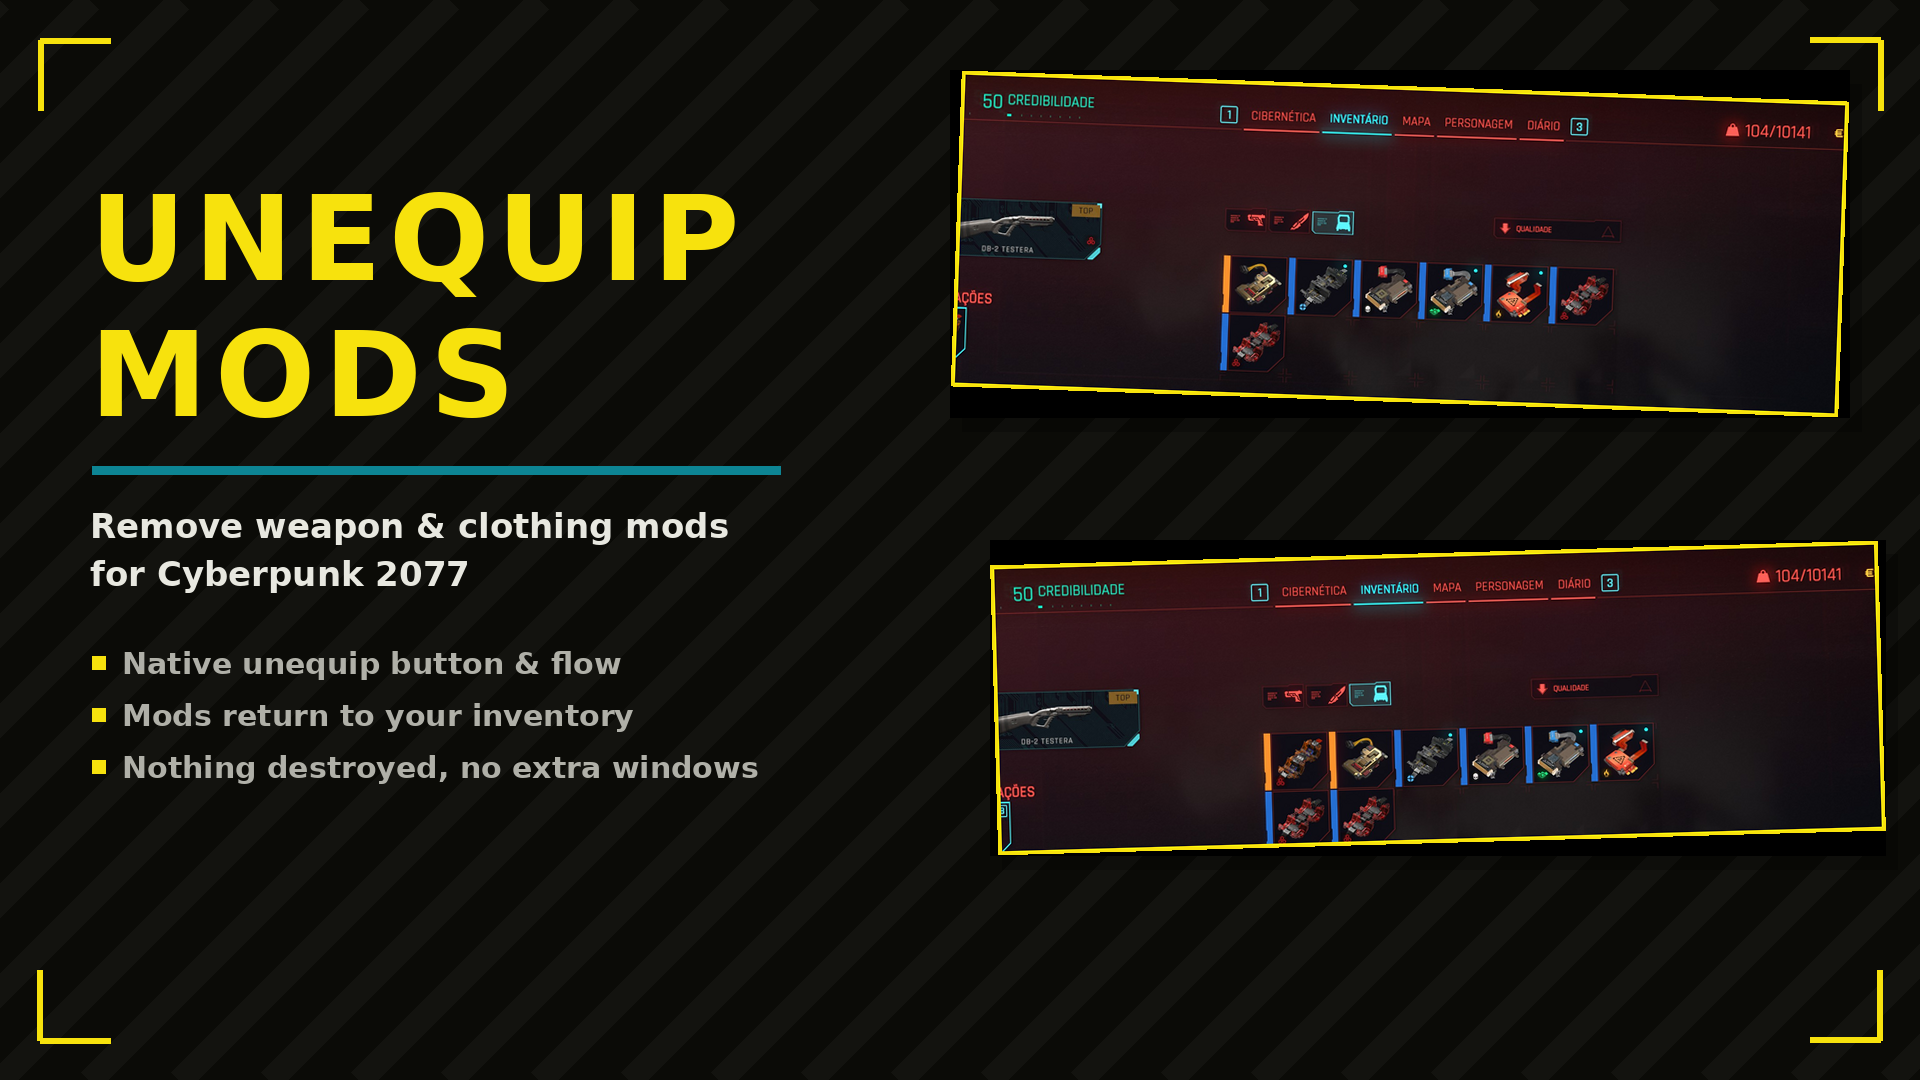
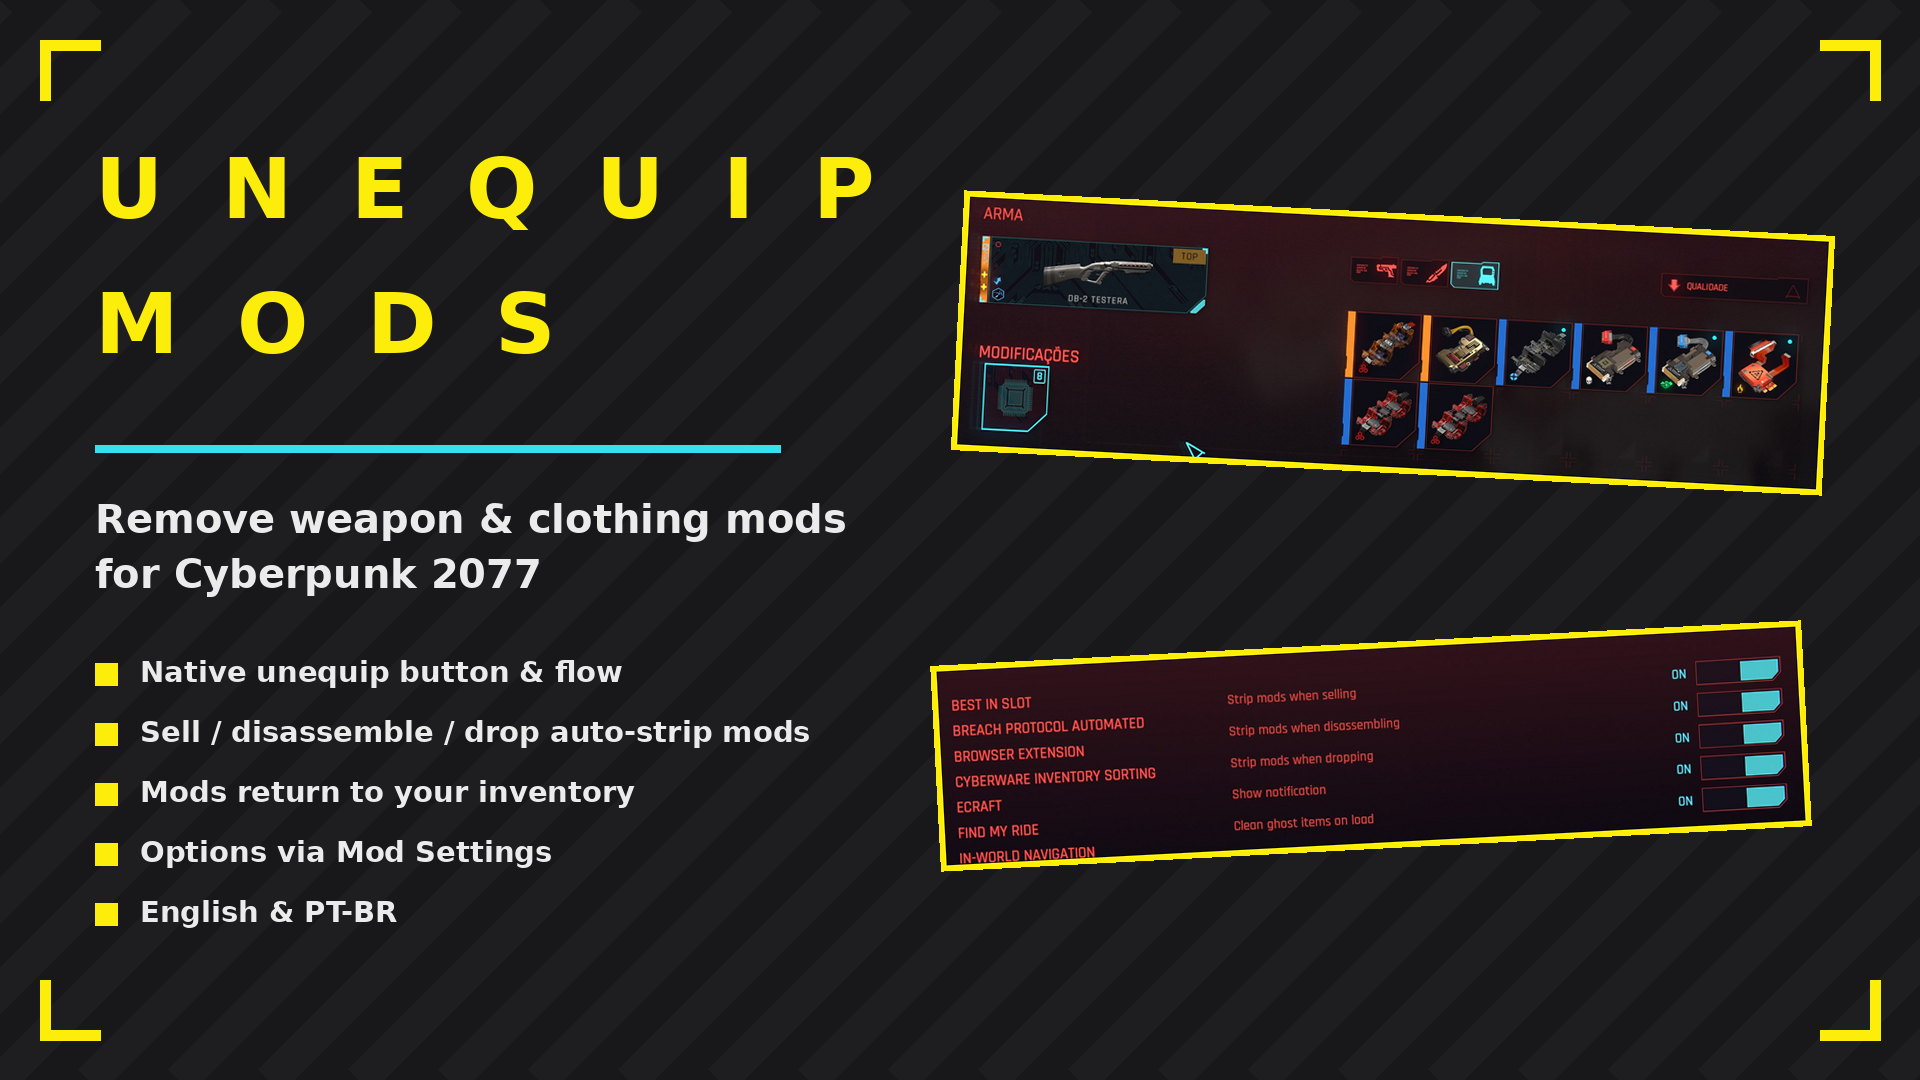
UnequipMods 1.4.0: strip on drop, Mod Settings, new cover

Changed region(s): [[0.0, 0.0, 1.0, 1.0]]

diff --git a/CyberPunk/UnequipMods/README.md b/CyberPunk/UnequipMods/README.md
@@ -9,11 +9,15 @@ Unequip weapon and clothing mods back to your inventory instead of losing them. 
 ## ✨ Features
 - Native unequip button & flow
 - Mods return to your inventory
+- Selling, disassembling and dropping auto-strip mods first
+- Options in the Mod Settings menu (optional dependency)
 - Nothing destroyed, no extra windows
+- English & PT-BR, following the game language
 
 ## 📸 Screenshots
 ![screenshot](screenshots/screenshot-antes-remover.jpg)
 ![screenshot](screenshots/screenshot-depois-remover.jpg)
+![screenshot](screenshots/mod-settings.jpg)
 
 ## 🌍 Translating
 Texts live in `Localization.reds`. To add a language, copy a package class, translate the
